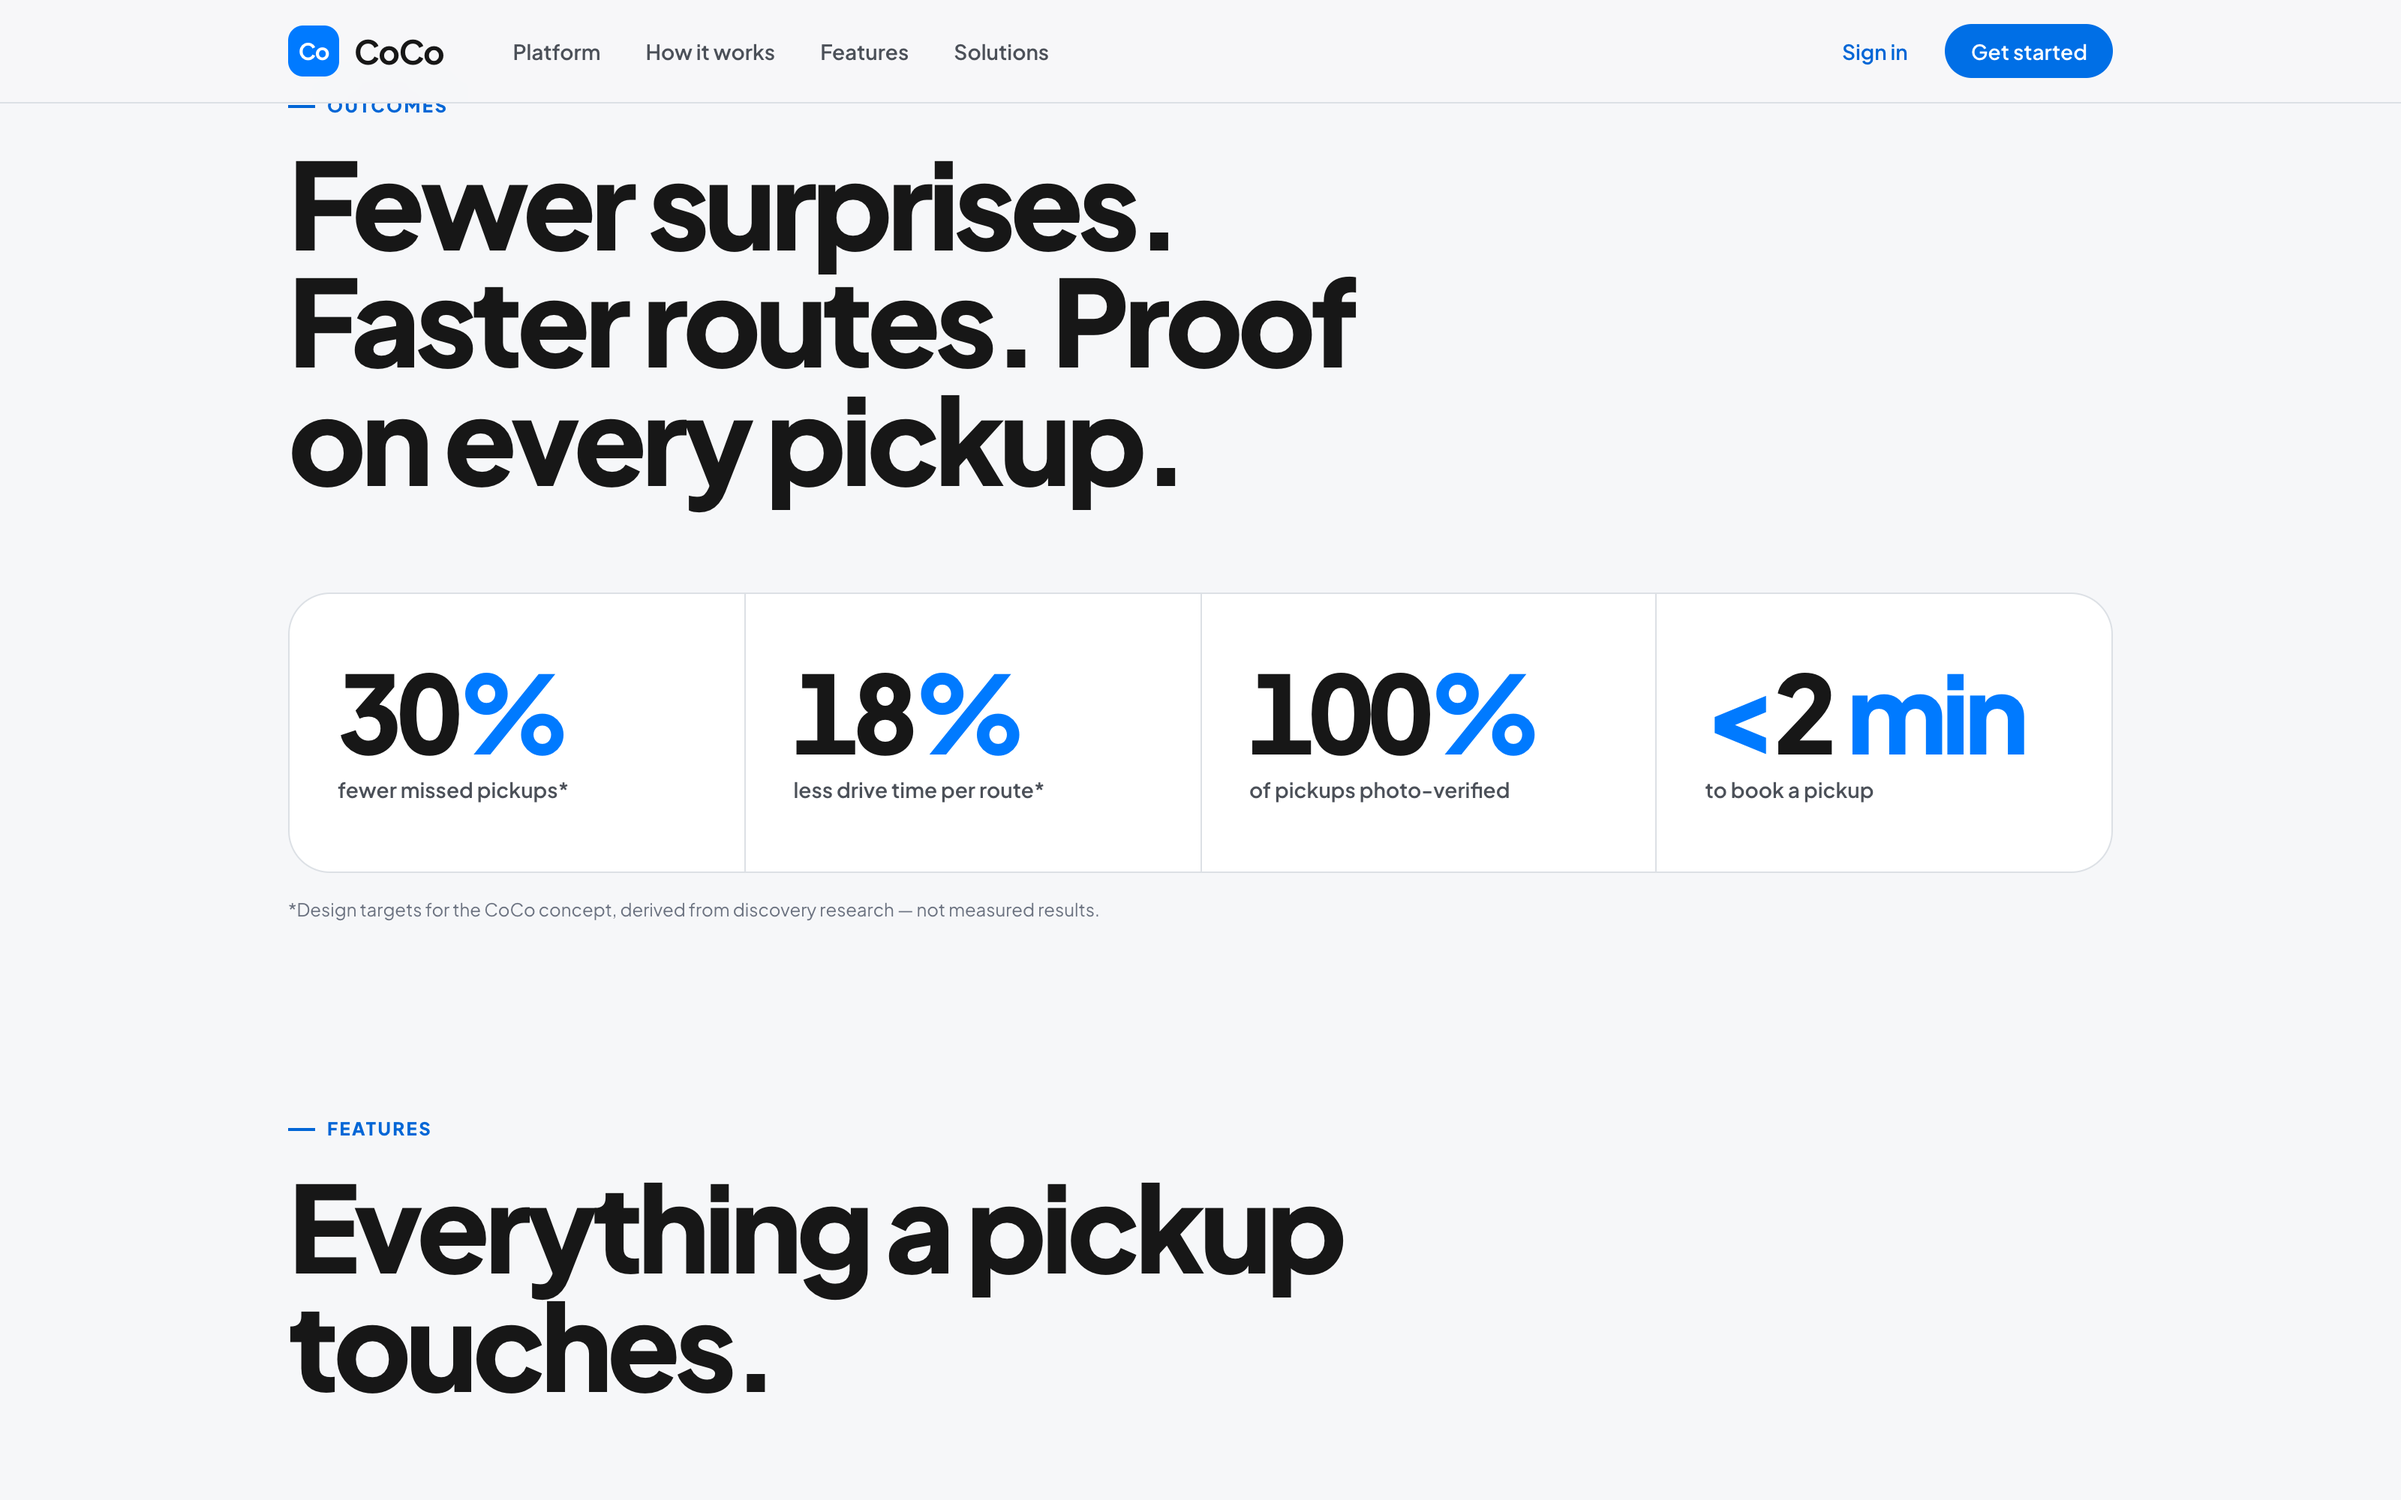
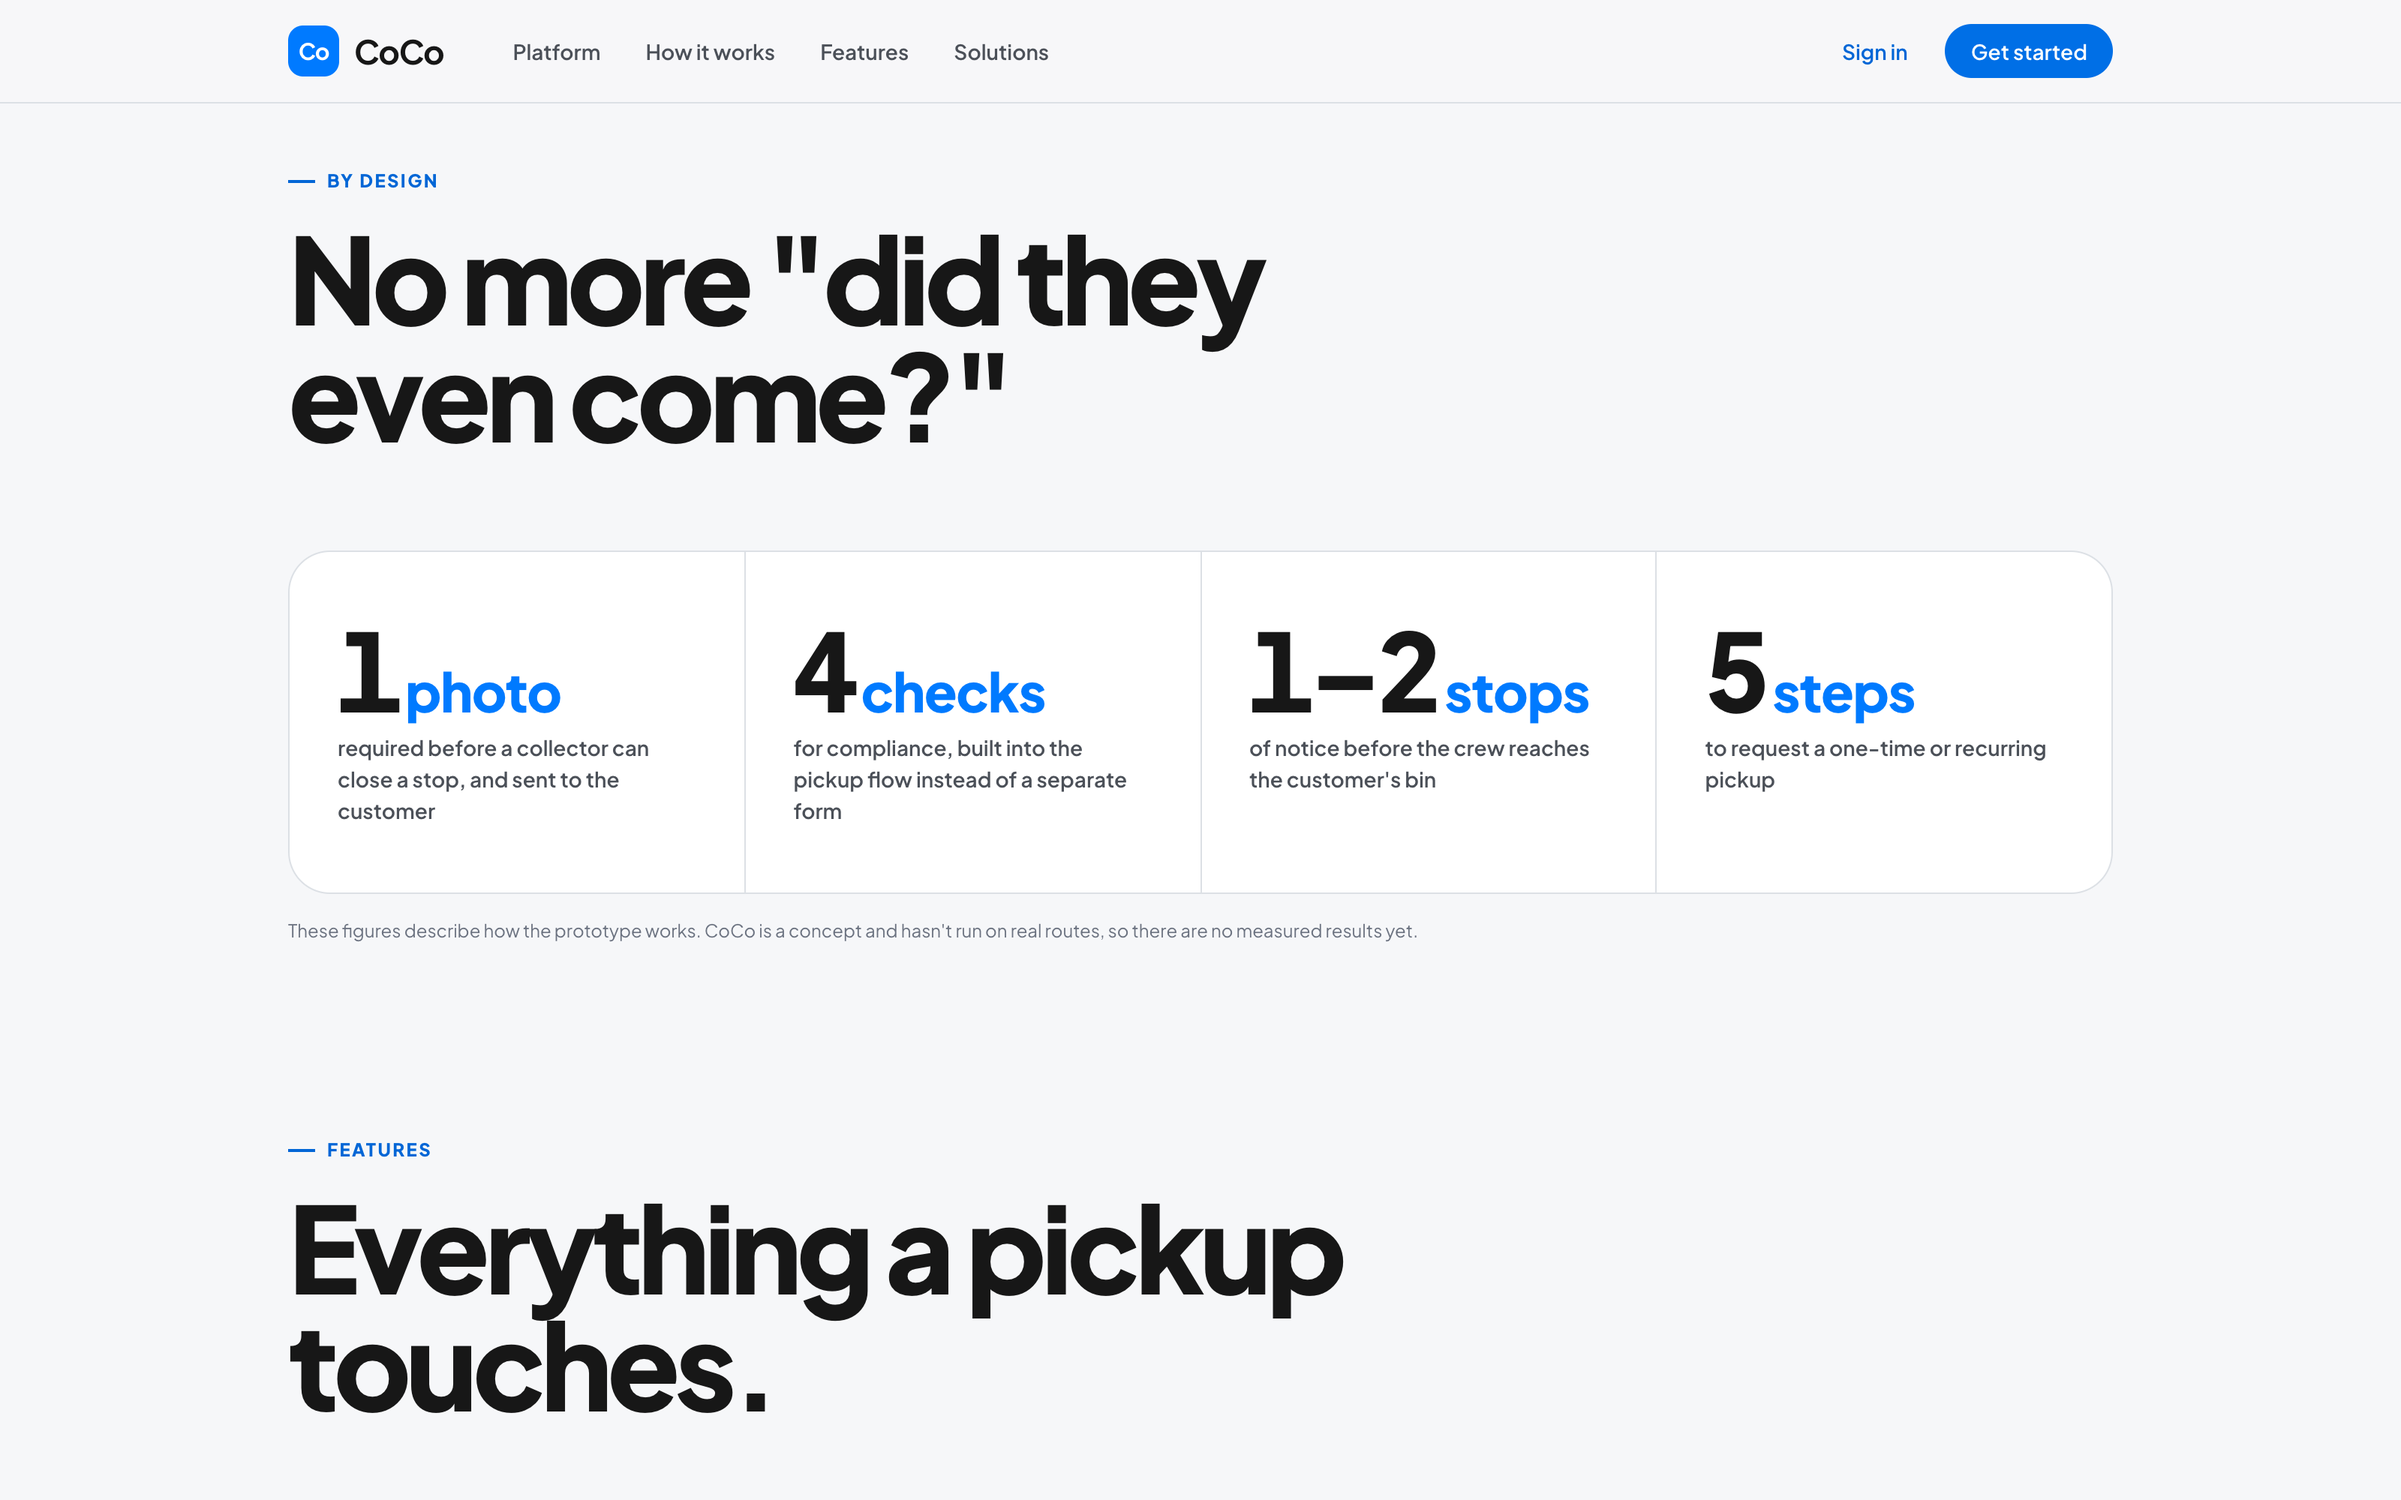
nativetheme

diff --git a/src/components/theme-toggle.tsx b/src/components/theme-toggle.tsx
@@ -1,45 +1,55 @@
 "use client";
 
-import { Moon, Sun } from "lucide-react";
+import { Monitor, Moon, Sun } from "lucide-react";
 import { useTheme } from "next-themes";
 import { useEffect, useState } from "react";
 
-import { Button } from "@/components/ui/button";
+import { buttonVariants } from "@/lib/button-variants";
 import { cn } from "@/lib/utils";
 
-export function ThemeToggle({ className }: { className?: string }) {
-  const { resolvedTheme, setTheme } = useTheme();
+const MODES = [
+  { value: "system", label: "System", Icon: Monitor },
+  { value: "light", label: "Light", Icon: Sun },
+  { value: "dark", label: "Dark", Icon: Moon },
+] as const;
+
+export function ThemeToggle() {
+  const { theme, setTheme } = useTheme();
   const [mounted, setMounted] = useState(false);
 
   useEffect(() => {
     setMounted(true);
   }, []);
 
-  if (!mounted) {
-    return (
-      <span
-        className="inline-flex size-8 shrink-0 items-center justify-center"
-        aria-hidden
-      />
-    );
-  }
-
-  const isDark = resolvedTheme === "dark";
+  // Theme is unknown until mount; render nothing selected to avoid a hydration mismatch.
+  const current = mounted ? (theme ?? "system") : undefined;
 
   return (
-    <Button
-      type="button"
-      variant="ghost"
-      size="icon"
-      className={cn("shrink-0 text-foreground", className)}
-      onClick={() => setTheme(isDark ? "light" : "dark")}
-      aria-label={isDark ? "Switch to light mode" : "Switch to dark mode"}
-    >
-      {isDark ? (
-        <Sun className="size-4" aria-hidden />
-      ) : (
-        <Moon className="size-4" aria-hidden />
-      )}
-    </Button>
+    <div className="flex flex-col gap-2">
+      <p className="text-[11px] font-semibold uppercase tracking-widest text-muted-foreground">
+        Appearance
+      </p>
+      <div className="flex flex-wrap gap-2">
+        {MODES.map(({ value, label, Icon }) => (
+          <button
+            key={value}
+            type="button"
+            onClick={() => setTheme(value)}
+            className={cn(
+              buttonVariants({
+                variant: current === value ? "default" : "outline",
+                size: "default",
+              }),
+              "h-[48px] min-h-[48px] gap-1.5 px-4 lg:h-[32px] lg:min-h-[32px]"
+            )}
+            aria-pressed={current === value}
+            aria-label={`Appearance: ${label}`}
+          >
+            <Icon className="size-4" aria-hidden />
+            {label}
+          </button>
+        ))}
+      </div>
+    </div>
   );
 }

diff --git a/src/data/showcase/coco.ts b/src/data/showcase/coco.ts
@@ -556,9 +556,9 @@ export const project: PastProject = {
               ),
               screen(
                 "site-outcomes",
-                "Outcomes",
-                "Design targets from discovery research.",
-                "Homepage outcomes: 30% fewer missed pickups, 18% less drive time per route, 100% of pickups photo-verified and under 2 minutes to book, marked as design targets."
+                "By design",
+                "What the prototype does, not projected results.",
+                "Homepage by design section: no more “did they even come?”. One photo required before a collector can close a stop and sent to the customer, four compliance checks built into the pickup flow, one to two stops of notice before the crew reaches the bin, and five steps to request a pickup. A note says CoCo is a concept with no measured results yet."
               ),
               screen(
                 "site-features",

diff --git a/src/components/project-journey-mapping.tsx b/src/components/project-journey-mapping.tsx
@@ -2,6 +2,7 @@
 
 import { Accordion } from "@base-ui/react/accordion";
 import { ChevronDown } from "lucide-react";
+import { useState } from "react";
 
 import type {
   JourneyAccordionBlock,
@@ -79,10 +80,12 @@ function JourneyMapTable({
 
 function JourneyMapAccordion(block: JourneyAccordionBlock) {
   const { value, title, defaultOpen, tableAriaLabel, columns } = block;
+  // Captured once: Base UI warns if an uncontrolled default changes identity.
+  const [initialOpen] = useState(() => (defaultOpen ? [value] : []));
   return (
     <Accordion.Root
       className="w-full overflow-hidden rounded-lg border border-border bg-card/60"
-      defaultValue={defaultOpen ? [value] : []}
+      defaultValue={initialOpen}
       multiple={false}
     >
       <Accordion.Item value={value}>

diff --git a/src/components/site-header.tsx b/src/components/site-header.tsx
@@ -116,9 +116,7 @@ export function SiteHeader() {
             <p className="text-[11px] font-semibold uppercase tracking-widest text-muted-foreground">
               Settings
             </p>
-            <div className="flex items-center">
-              <ThemeToggle className="size-10 shrink-0 rounded-md bg-secondary text-secondary-foreground hover:bg-secondary/80" />
-            </div>
+            <ThemeToggle />
             <TextSizeControl />
           </div>
         </div>
